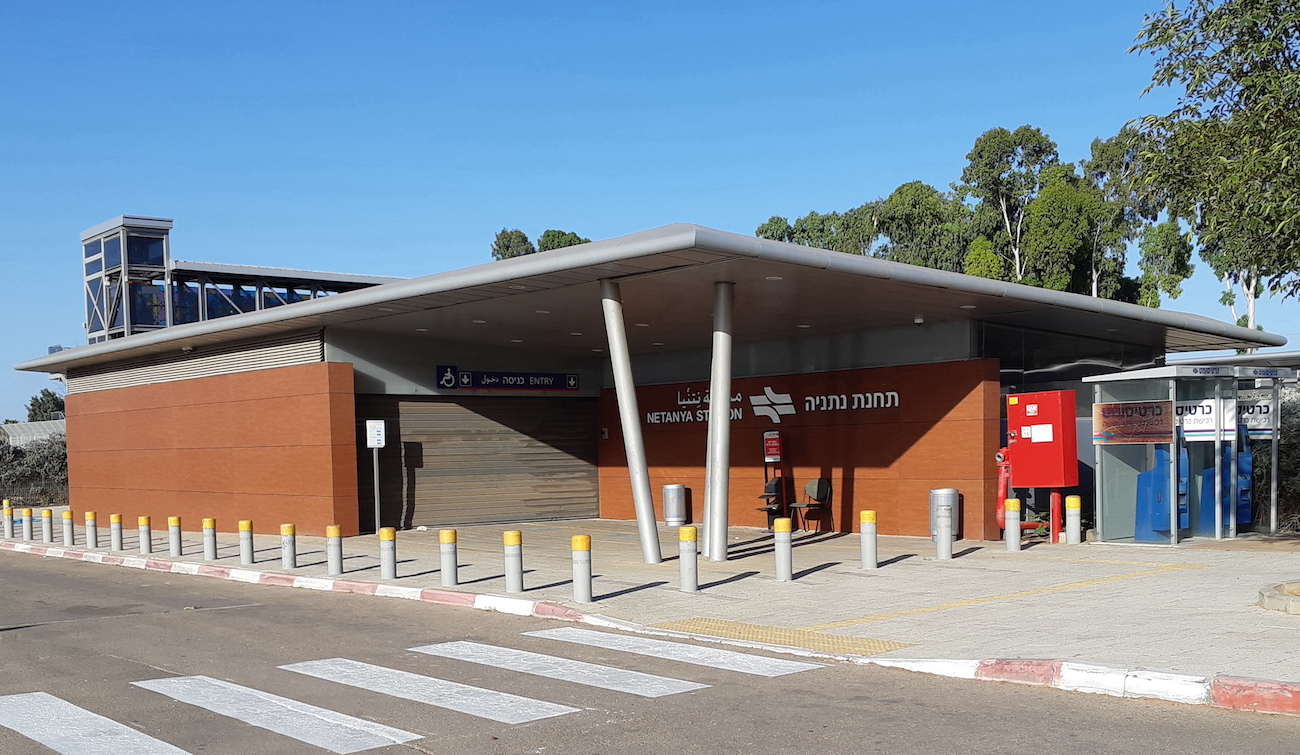
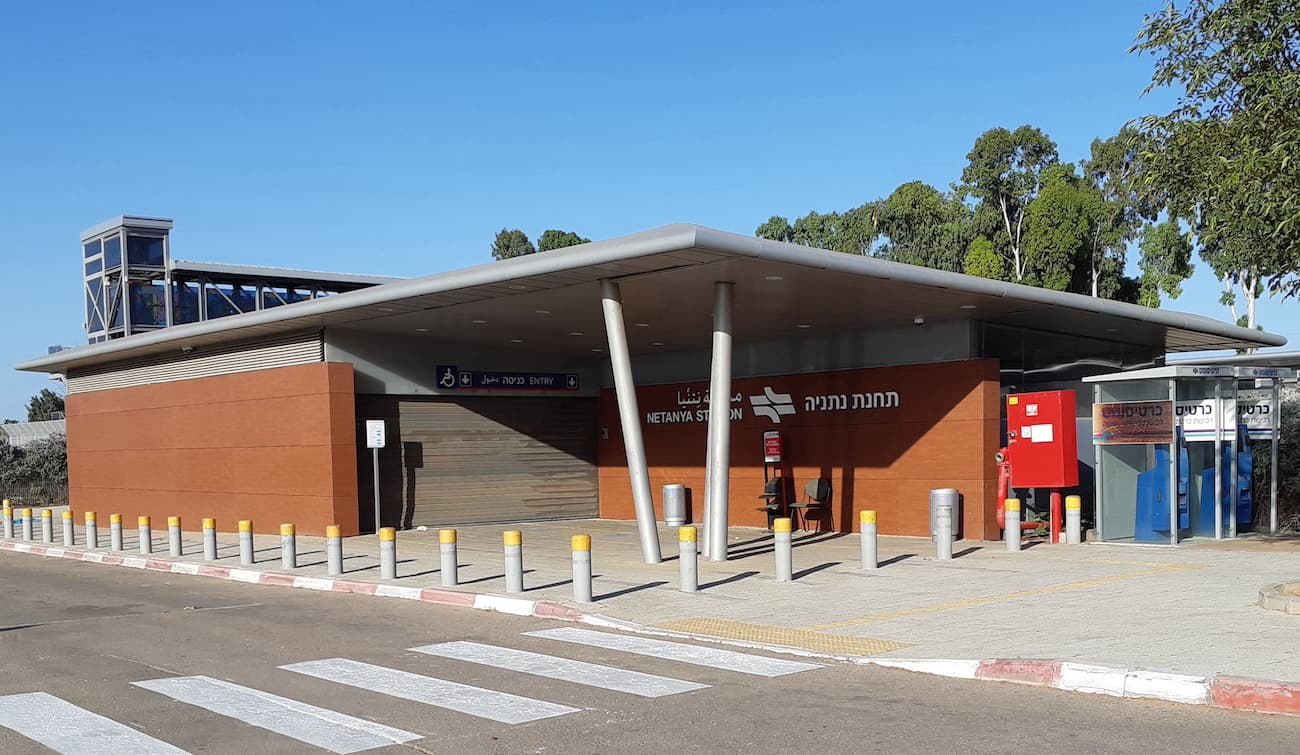
🖼 - Squooshed station images file size

diff --git a/app/data/stations.ts b/app/data/stations.ts
@@ -8,7 +8,7 @@ const stations = [
     english: "Tel Aviv - Savidor Center",
     russian: "Тель-Авив - Мерказ - Центральная",
     arabic: "تل ابيب – ساڤيدور المركز",
-    image: require("../../assets/station-images/tlv-center.jpeg"),
+    image: require("../../assets/station-images/tlv-center.jpg"),
   },
   {
     id: "3500",
@@ -54,7 +54,7 @@ const stations = [
     english: "Caesarea-Pardes Hana",
     russian: "Кейсария - Пардес-Хана",
     arabic: "قيساريا - بارديس حنا",
-    image: require("../../assets/station-images/caesarea.jpeg"),
+    image: require("../../assets/station-images/caesarea.jpg"),
   },
   {
     id: "2500",
@@ -115,7 +115,7 @@ const stations = [
     english: "Kfar Sava - Nordau",
     russian: "Кфар-Саба – Нордау",
     arabic: "كفار سابا - نورداو",
-    image: require("../../assets/station-images/kfar-saba.jpeg"),
+    image: require("../../assets/station-images/kfar-saba.jpg"),
   },
   {
     id: "1600",
@@ -168,7 +168,7 @@ const stations = [
     english: "Tel Aviv - HaShalom",
     russian: "Тель-Авив - ха-Шалом",
     arabic: "تل أبيب - السلام",
-    image: require("../../assets/station-images/tlv-hashalom.jpeg"),
+    image: require("../../assets/station-images/tlv-hashalom.jpg"),
   },
   {
     id: "2100",
@@ -190,7 +190,7 @@ const stations = [
     english: "Rosh Ha'Ayin - North",
     russian: "Рош ха - Айн Цафон",
     arabic: "روش هعاين - شمال",
-    image: require("../../assets/station-images/rosh-haayin.jpeg"),
+    image: require("../../assets/station-images/rosh-haayin.jpg"),
   },
   {
     id: "5300",
@@ -273,7 +273,7 @@ const stations = [
     english: "Tel Aviv - HaHagana",
     russian: "Тель-Авив - ха-Хагана ",
     arabic: "تل أبيب - ههچناه",
-    image: require("../../assets/station-images/tlv-hagana.jpeg"),
+    image: require("../../assets/station-images/tlv-hagana.jpg"),
   },
   {
     id: "8600",
@@ -310,7 +310,7 @@ const stations = [
     english: "Hod HaSharon - Sokolov",
     russian: "Ход Хашарон - Соколов",
     arabic: "هود هشارون - سوكولوڤ",
-    image: require("../../assets/station-images/hod_hasharon_sokolov.jpg"),
+    image: require("../../assets/station-images/hod-hasharon-sokolov.jpg"),
   },
   {
     id: "4170",
@@ -390,7 +390,7 @@ const stations = [
     english: "Yavne - West",
     russian: "Явне-Запад",
     arabic: "ياڤني - غرب",
-    image: require("../../assets/station-images/yavne-west.jpeg"),
+    image: require("../../assets/station-images/yavne-west.jpg"),
   },
   {
     id: "9600",
